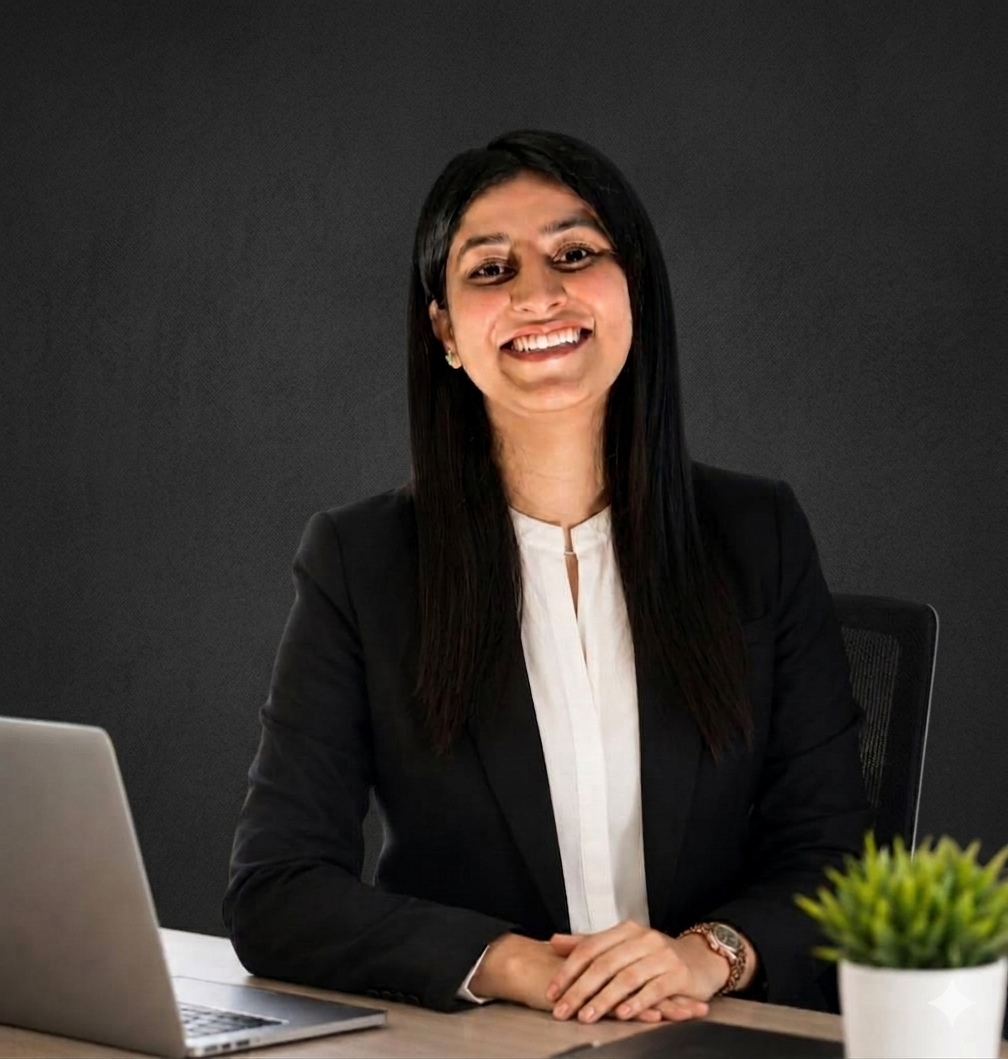
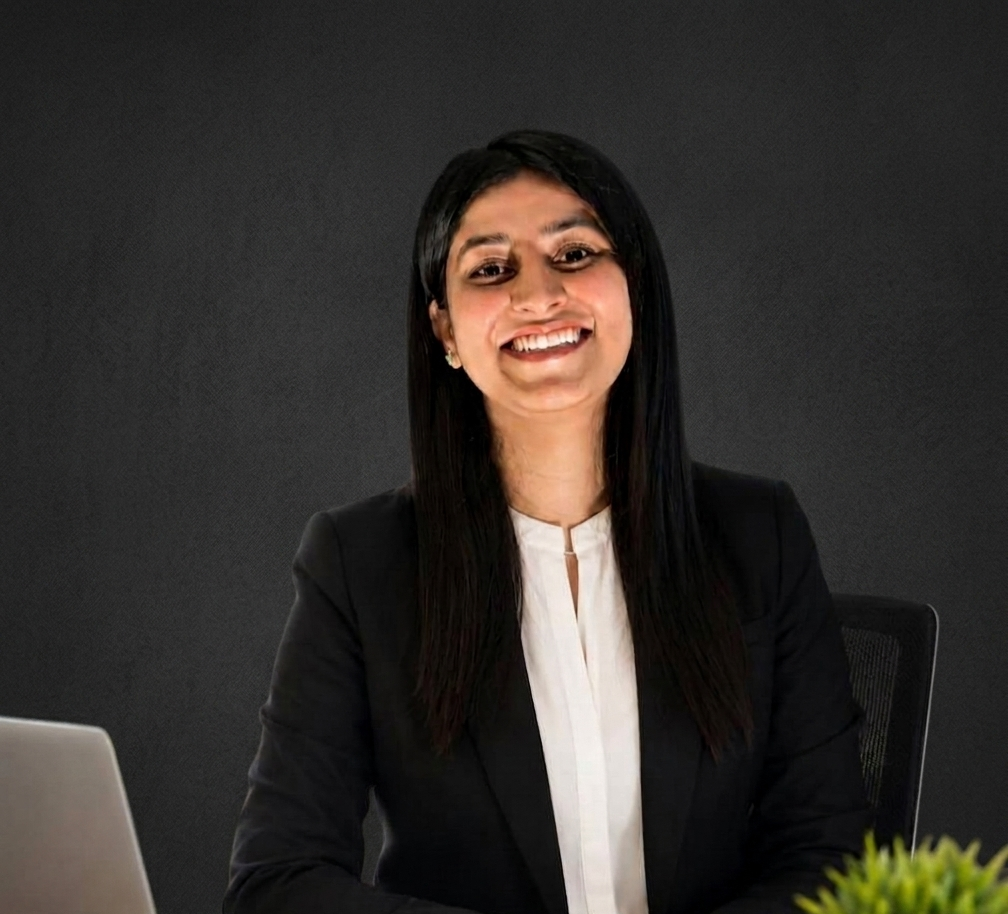
Initial Commit

Changed region(s): [[0.0, 0.1225, 1.0, 1.0], [0.3383, 0.7659, 0.3998, 0.8578], [0.7381, 0.7965, 0.7688, 0.8271]]

diff --git a/src/components/Instructors.vue b/src/components/Instructors.vue
@@ -1,11 +1,11 @@
 <script setup>
 const people = [
-  {name: 'Jaweria Masood', role: 'English Mentor', img: 'src/assets/jav.jpeg'},
-  {name: 'Abdul Basit Khan', role: 'Design Mentor / Founder', img: 'https://placehold.co/320x320?text=Abdul'},
-  {name: 'Shahin Perween', role: 'Hindi Mentor', img: 'src/assets/shaheen.png'},
+  {name: 'Jaweria Masood', role: 'English Mentor', img: 'src/assets/jaweria.png'},
+  {name: 'Abdul Basit Khan', role: 'Design Mentor / Founder', img: 'src/assets/basit.png'},
+  {name: 'Shahin Perween', role: 'Hindi Mentor', img: 'src/assets/shahin.png'},
   {name: 'Fahad Yaqub', role: 'Content Mentor', img: 'src/assets/fahad.jpg'},
   {name: 'Helal Anwar', role: 'Programming Mentor / Co-Founder', img: 'src/assets/helal.png'},
-  {name: 'Aisha Roy', role: 'Exam Coach', img: 'https://placehold.co/320x320?text=Aisha'},
+  {name: 'Rahmatullah Baig', role: 'Office Boy', img: 'src/assets/faraz.png'},
 ];
 </script>
 
